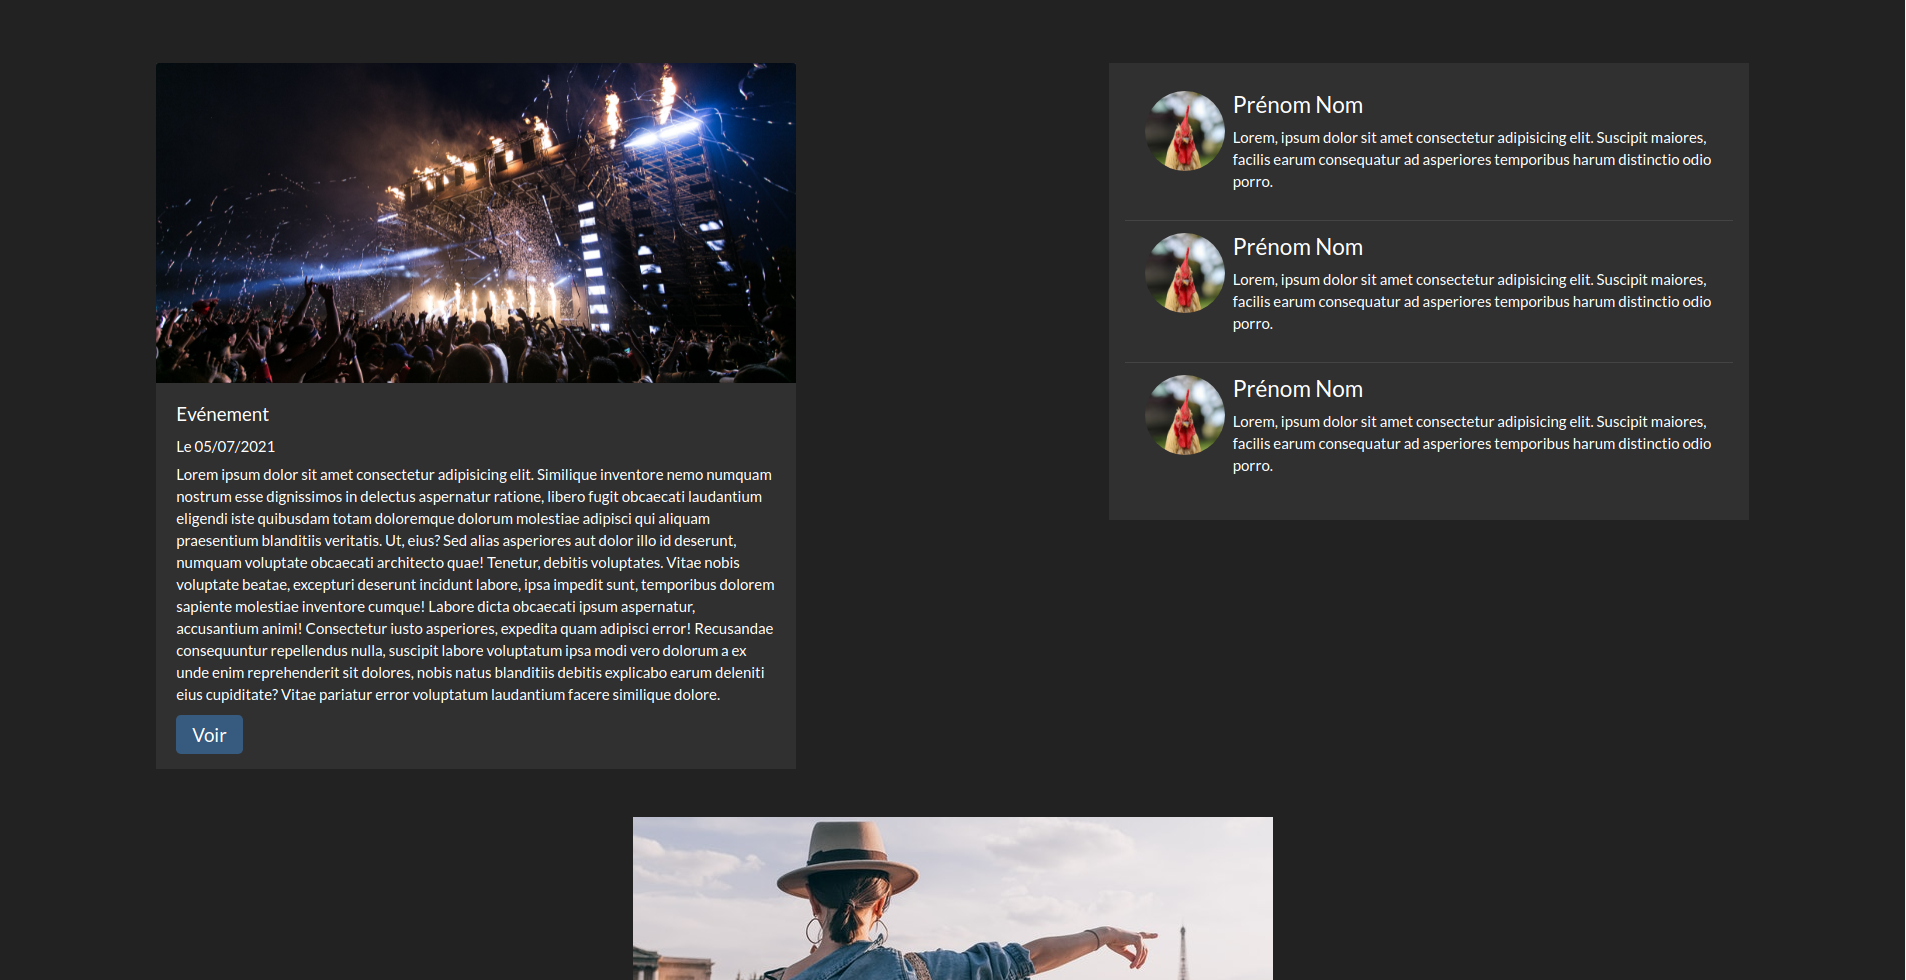
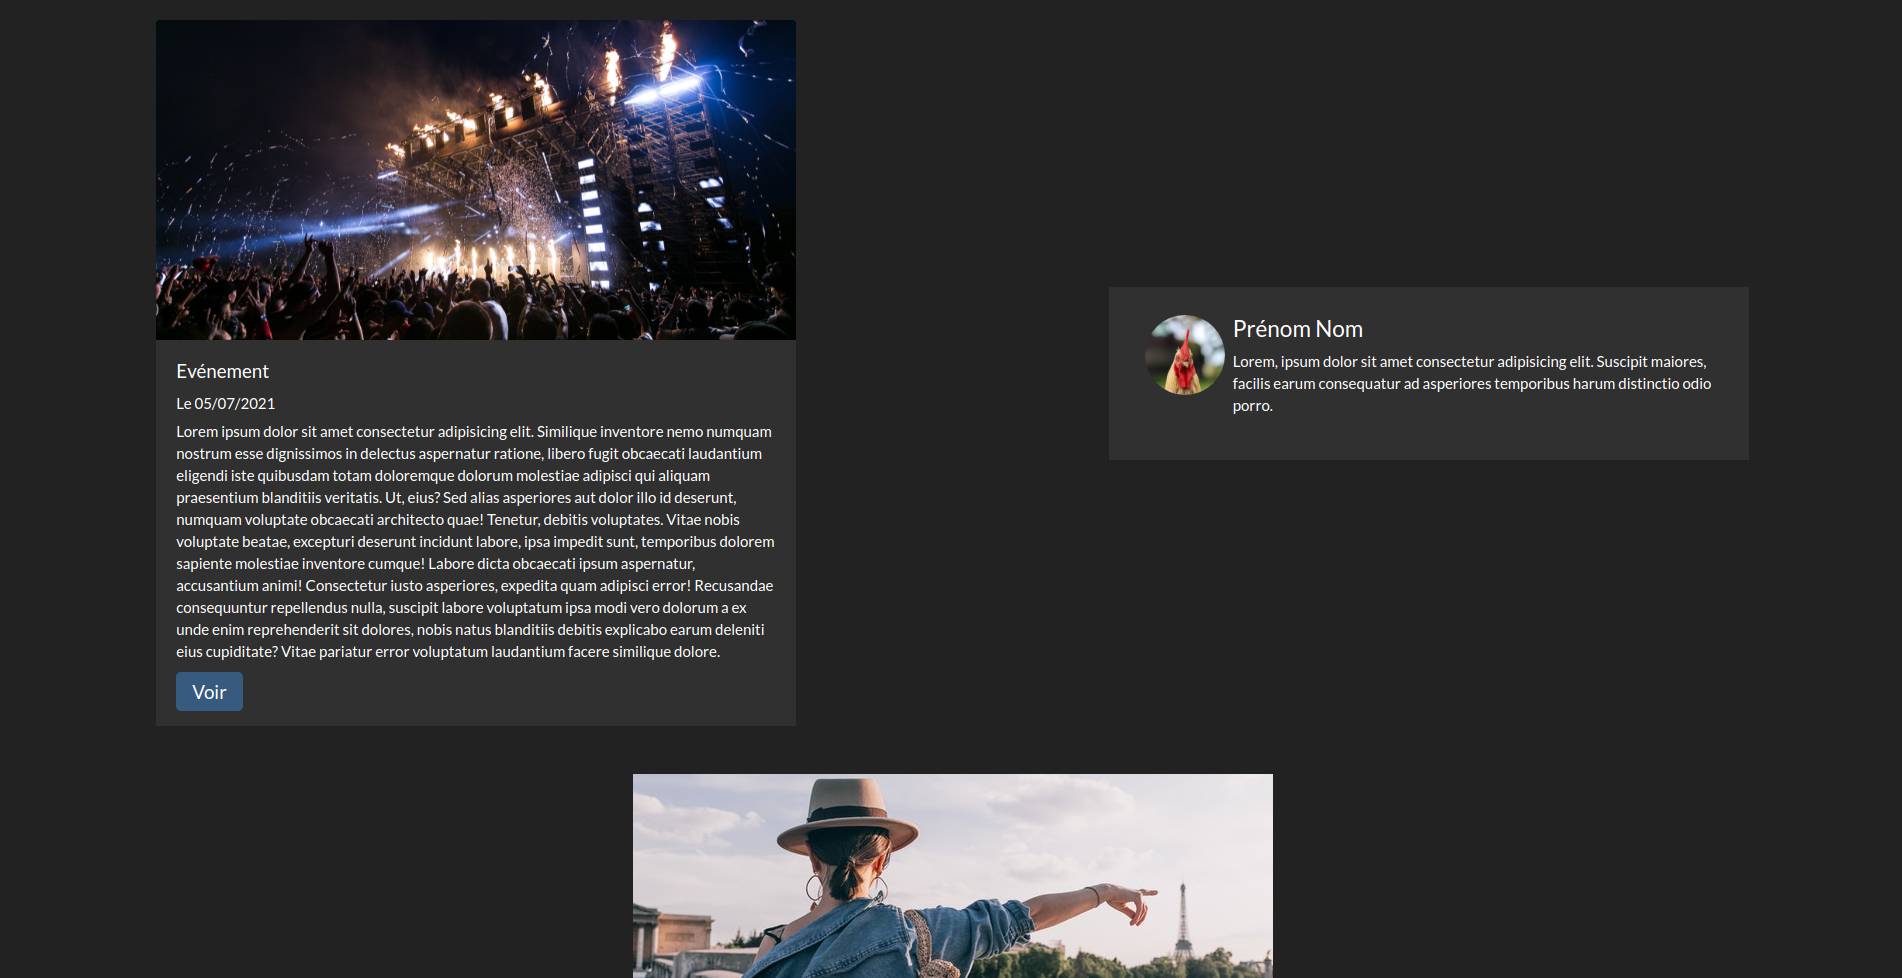
Ajout des listes d'événements et de réservation

diff --git a/events.html b/events.html
@@ -1,0 +1,98 @@
+<!DOCTYPE html>
+<html lang="fr">
+<head>
+    <meta charset="UTF-8">
+    <meta http-equiv="X-UA-Compatible" content="IE=edge">
+    <meta name="viewport" content="width=device-width, initial-scale=1.0">
+    <title>My Eventbrite | Event list</title>
+    <link rel="stylesheet" href="https://cdn.jsdelivr.net/npm/bootswatch@4.5.2/dist/darkly/bootstrap.min.css" integrity="sha384-nNK9n28pDUDDgIiIqZ/MiyO3F4/9vsMtReZK39klb/MtkZI3/LtjSjlmyVPS3KdN" crossorigin="anonymous">
+    <link rel="stylesheet" href="style.css">
+</head>
+<body>
+    <a href="./index.html" class="btn btn-primary mt-3 ml-3 mb-3">Retour à l'index</a>
+    
+    <div class="container event-list">
+        <div class="row cols-3 my-5">
+            
+            <div class="col">
+                <div class="card bg-dark" >
+                    <div class="card-header img-event img-center">
+                    </div>
+                    <div class="card-body">
+                      <h5 class="card-title">Evénement</h5>
+                      <h6>Le 05/07/2021</h6>
+                      <p class="card-text">Lorem ipsum dolor sit amet consectetur adipisicing elit. Similique inventore nemo numquam nostrum esse dignissimos in delectus aspernatur ratione, libero fugit obcaecati laudantium eligendi iste quibusdam totam doloremque dolorum molestiae adipisci qui aliquam praesentium blanditiis veritatis. Ut, eius? Sed alias asperiores aut dolor illo id deserunt, numquam voluptate obcaecati architecto quae! Tenetur, debitis voluptates. Vitae nobis voluptate beatae, excepturi deserunt incidunt labore, ipsa impedit sunt, temporibus dolorem sapiente molestiae inventore cumque! Labore dicta obcaecati ipsum aspernatur, accusantium animi! Consectetur iusto asperiores, expedita quam adipisci error! Recusandae consequuntur repellendus nulla, suscipit labore voluptatum ipsa modi vero dolorum a ex unde enim reprehenderit sit dolores, nobis natus blanditiis debitis explicabo earum deleniti eius cupiditate? Vitae pariatur error voluptatum laudantium facere similique dolore.</p>
+                      <a href="#" class="btn-lg btn-primary">Voir</a>
+                    </div>
+                  </div>
+            </div>
+
+            <div class="col">
+                <div class="card bg-dark" >
+                    <div class="card-header img-event img-center">
+                    </div>
+                    <div class="card-body">
+                      <h5 class="card-title">Evénement</h5>
+                      <h6>Le 05/07/2021</h6>
+                      <p class="card-text">Lorem ipsum dolor sit amet consectetur adipisicing elit. Similique inventore nemo numquam nostrum esse dignissimos in delectus aspernatur ratione, libero fugit obcaecati laudantium eligendi iste quibusdam totam doloremque dolorum molestiae adipisci qui aliquam praesentium blanditiis veritatis. Ut, eius? Sed alias asperiores aut dolor illo id deserunt, numquam voluptate obcaecati architecto quae! Tenetur, debitis voluptates. Vitae nobis voluptate beatae, excepturi deserunt incidunt labore, ipsa impedit sunt, temporibus dolorem sapiente molestiae inventore cumque! Labore dicta obcaecati ipsum aspernatur, accusantium animi! Consectetur iusto asperiores, expedita quam adipisci error! Recusandae consequuntur repellendus nulla, suscipit labore voluptatum ipsa modi vero dolorum a ex unde enim reprehenderit sit dolores, nobis natus blanditiis debitis explicabo earum deleniti eius cupiditate? Vitae pariatur error voluptatum laudantium facere similique dolore.</p>
+                      <a href="#" class="btn-lg btn-primary">Voir</a>
+                    </div>
+                  </div>
+            </div>
+
+            <div class="col">
+                <div class="card bg-dark" >
+                    <div class="card-header img-event img-center">
+                    </div>
+                    <div class="card-body">
+                      <h5 class="card-title">Evénement</h5>
+                      <h6>Le 05/07/2021</h6>
+                      <p class="card-text">Lorem ipsum dolor sit amet consectetur adipisicing elit. Similique inventore nemo numquam nostrum esse dignissimos in delectus aspernatur ratione, libero fugit obcaecati laudantium eligendi iste quibusdam totam doloremque dolorum molestiae adipisci qui aliquam praesentium blanditiis veritatis. Ut, eius? Sed alias asperiores aut dolor illo id deserunt, numquam voluptate obcaecati architecto quae! Tenetur, debitis voluptates. Vitae nobis voluptate beatae, excepturi deserunt incidunt labore, ipsa impedit sunt, temporibus dolorem sapiente molestiae inventore cumque! Labore dicta obcaecati ipsum aspernatur, accusantium animi! Consectetur iusto asperiores, expedita quam adipisci error! Recusandae consequuntur repellendus nulla, suscipit labore voluptatum ipsa modi vero dolorum a ex unde enim reprehenderit sit dolores, nobis natus blanditiis debitis explicabo earum deleniti eius cupiditate? Vitae pariatur error voluptatum laudantium facere similique dolore.</p>
+                      <a href="#" class="btn-lg btn-primary">Voir</a>
+                    </div>
+                  </div>
+            </div>
+
+        </div>
+
+        <div class="row cols-1 my-5">
+            <div class="col">
+                <div class="card p-3 bg-dark">
+                    <h3 class="cart-title">Réservations</h3>
+                    <ul class="list-group list-group-flush">
+                        <li class="list-group-item">
+                            <div class="media">
+                                <div class="media-img img-center mr-2"></div>
+                                <div class="media-body">
+                                    <h4>Prénom Nom</h4>
+                                    <p>Lorem, ipsum dolor sit amet consectetur adipisicing elit. Suscipit maiores, facilis earum consequatur ad asperiores temporibus harum distinctio odio porro.</p>
+                                </div>
+                            </div>
+                        </li>
+                        <li class="list-group-item">
+                            <div class="media">
+                                <div class="media-img img-center mr-2"></div>
+                                <div class="media-body">
+                                    <h4>Prénom Nom</h4>
+                                    <p>Lorem, ipsum dolor sit amet consectetur adipisicing elit. Suscipit maiores, facilis earum consequatur ad asperiores temporibus harum distinctio odio porro.</p>
+                                </div>
+                            </div>
+                        </li>
+                        <li class="list-group-item">
+                            <div class="media">
+                                <div class="media-img img-center mr-2"></div>
+                                <div class="media-body">
+                                    <h4>Prénom Nom</h4>
+                                    <p>Lorem, ipsum dolor sit amet consectetur adipisicing elit. Suscipit maiores, facilis earum consequatur ad asperiores temporibus harum distinctio odio porro.</p>
+                                </div>
+                            </div>
+                        </li>
+                    </ul>
+                </div>
+            </div>
+        </div>
+    </div>
+    <script src="https://cdn.jsdelivr.net/npm/@popperjs/core@2.9.2/dist/umd/popper.min.js" integrity="sha384-IQsoLXl5PILFhosVNubq5LC7Qb9DXgDA9i+tQ8Zj3iwWAwPtgFTxbJ8NT4GN1R8p" crossorigin="anonymous"></script>
+    <script src="https://cdn.jsdelivr.net/npm/bootstrap@5.0.1/dist/js/bootstrap.min.js" integrity="sha384-Atwg2Pkwv9vp0ygtn1JAojH0nYbwNJLPhwyoVbhoPwBhjQPR5VtM2+xf0Uwh9KtT" crossorigin="anonymous"></script>
+</body>
+</html>

diff --git a/cards.html b/cards.html
@@ -12,7 +12,7 @@
     <a href="./index.html" class="btn btn-primary mt-3 ml-3 mb-3">Retour à l'index</a>
 
     <div class="container">
-        <div class="row cols-2 my-5">
+        <div class="row cols-2 my-5 align-items-center">
 
             <div class="col">
                 <div class="card-custom bg-dark" >
@@ -30,24 +30,6 @@
             <div class="col">
                 <div class="card-custom p-3 bg-dark">
                     <ul class="list-group list-group-flush">
-                        <li class="list-group-item">
-                            <div class="media">
-                                <div class="media-img img-center mr-2"></div>
-                                <div class="media-body">
-                                    <h4>Prénom Nom</h4>
-                                    <p>Lorem, ipsum dolor sit amet consectetur adipisicing elit. Suscipit maiores, facilis earum consequatur ad asperiores temporibus harum distinctio odio porro.</p>
-                                </div>
-                            </div>
-                        </li>
-                        <li class="list-group-item">
-                            <div class="media">
-                                <div class="media-img img-center mr-2"></div>
-                                <div class="media-body">
-                                    <h4>Prénom Nom</h4>
-                                    <p>Lorem, ipsum dolor sit amet consectetur adipisicing elit. Suscipit maiores, facilis earum consequatur ad asperiores temporibus harum distinctio odio porro.</p>
-                                </div>
-                            </div>
-                        </li>
                         <li class="list-group-item">
                             <div class="media">
                                 <div class="media-img img-center mr-2"></div>

diff --git a/index.html b/index.html
@@ -82,7 +82,7 @@
             <div class="col text-center">
                 <div class="card-custom">
                     <div class="card-header text-start">
-                        <h3>Section événements</h3>
+                        <h3>Liste d'événements et réservations</h3>
                     </div>
                     <div class="card-img-top img-center img-events"></div>
                     <div class="card-body bg-light">
@@ -94,6 +94,6 @@
 
      </div>
     <script src="https://cdn.jsdelivr.net/npm/@popperjs/core@2.9.2/dist/umd/popper.min.js" integrity="sha384-IQsoLXl5PILFhosVNubq5LC7Qb9DXgDA9i+tQ8Zj3iwWAwPtgFTxbJ8NT4GN1R8p" crossorigin="anonymous"></script>
-    <script src="https://cdn.jsdelivr.net/npm/bootstrap@5.0.1/dist/js/bootstrap.min.js" integrity="sha384-Atwg2Pkwv9vp0ygtn1JAojH0nYbwNJLPhwyoVbhoPwBhjQPR5VtM2+xf0Uwh9KtT" crossorigin="anonymous"></script    </div>
+    <script src="https://cdn.jsdelivr.net/npm/bootstrap@5.0.1/dist/js/bootstrap.min.js" integrity="sha384-Atwg2Pkwv9vp0ygtn1JAojH0nYbwNJLPhwyoVbhoPwBhjQPR5VtM2+xf0Uwh9KtT" crossorigin="anonymous"></script>
 </body>
 </html>

diff --git a/style.css b/style.css
@@ -38,6 +38,9 @@
 .img-cards {
     background-image: url(./images/cards.png);
 }
+.img-events {
+    background-image: url(./images/event-list.png);
+}
 
 /* ---------------------------------------------------------- */
 
@@ -94,4 +97,12 @@
 }
 .img-city {
     background-image: url(./images/paris.jpg);
+}
+
+/* ---------------------------------------------------------- */
+
+/* Liste de cartes */
+
+.event-list {
+    max-width: 90%;
 }
